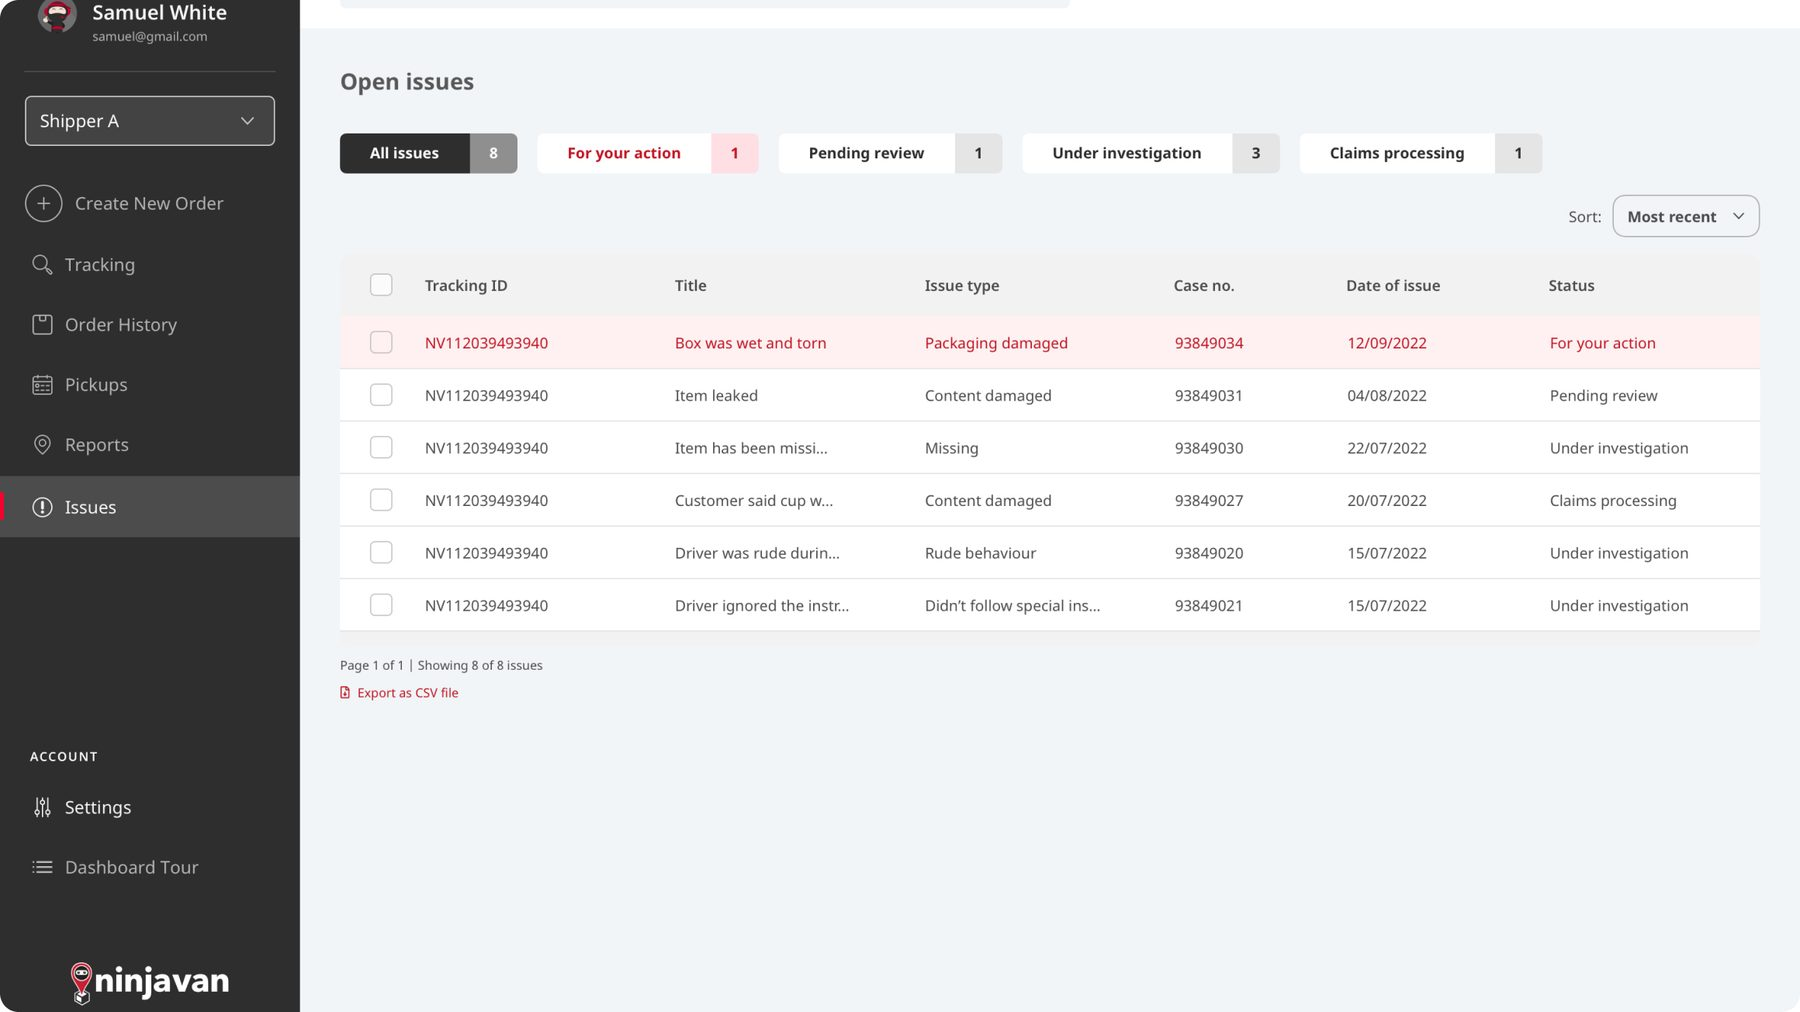
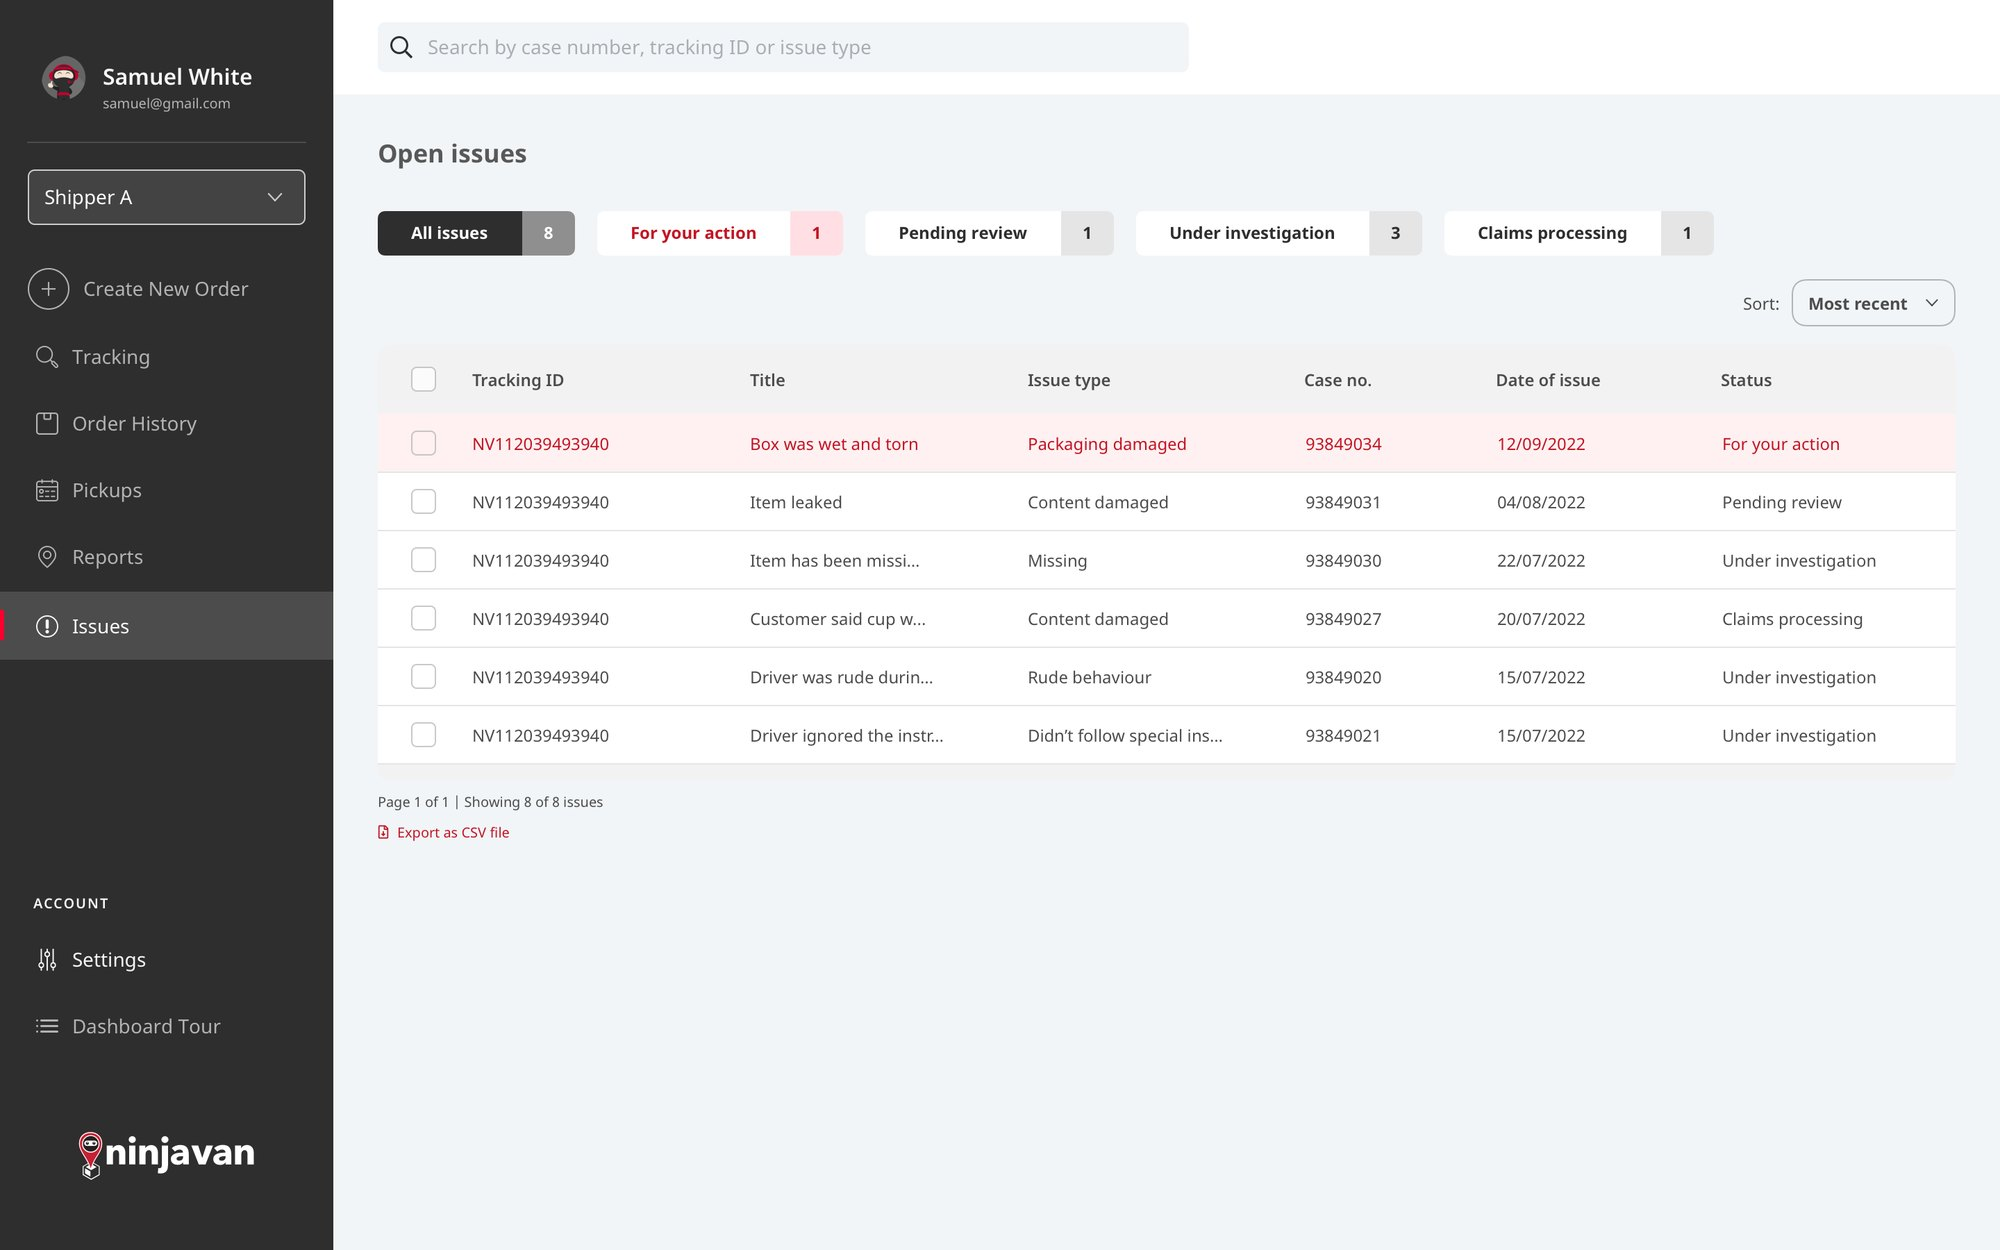
Ninja Van: full-bleed portal screenshot, no inner corner radius
Claude-Session: https://claude.ai/code/session_01MkzssbiWjDzMdy79T6ptKv

diff --git a/public/ninjavan.html b/public/ninjavan.html
@@ -453,7 +453,7 @@
   </section>
 
   <figure class="panel c-media">
-    <img src="assets/nv-issues.jpg" alt="The Ninja Van shipper portal showing open issues, filtered by status" width="1800" height="1012">
+    <img src="assets/nv-issues.jpg" alt="The Ninja Van shipper portal showing open issues, filtered by status" width="2000" height="1250">
     <figcaption>Every open case in one place, sorted by what needs the merchant to act.</figcaption>
   </figure>
 
